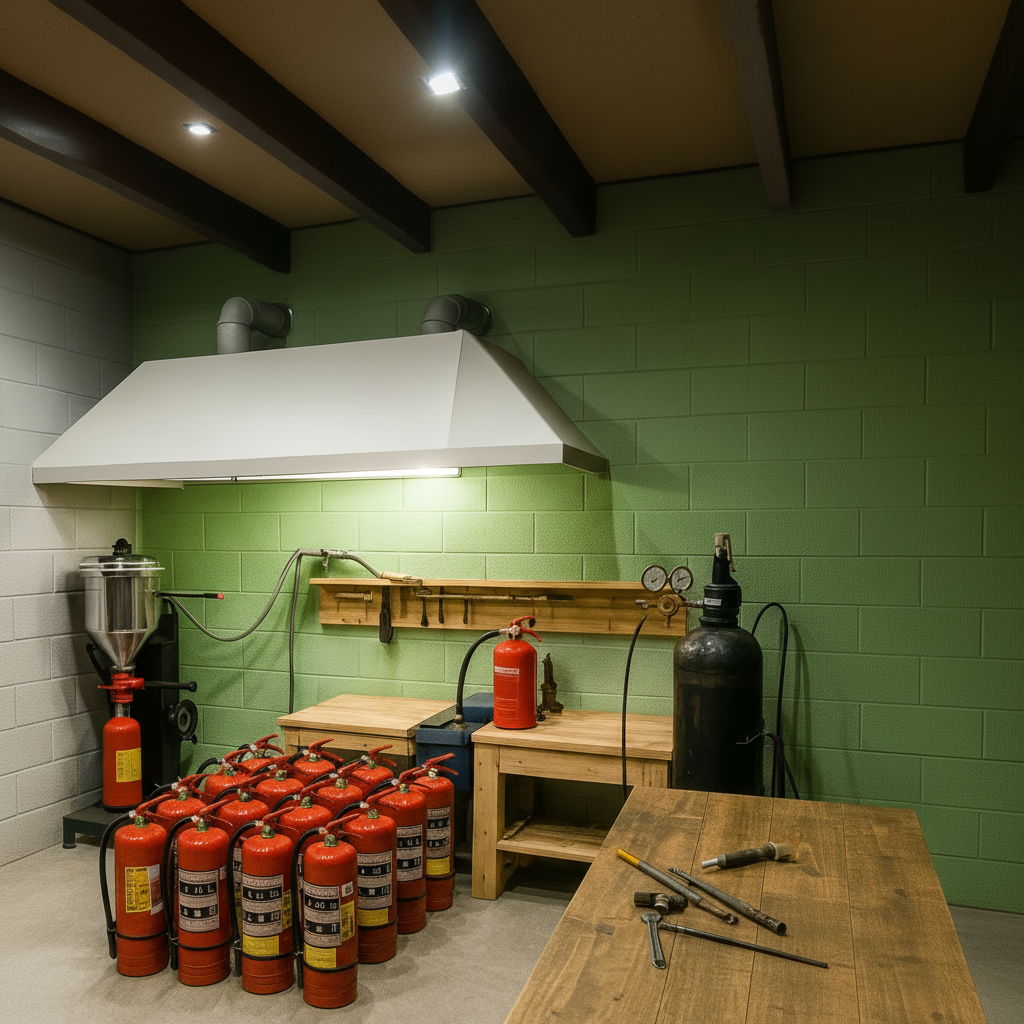
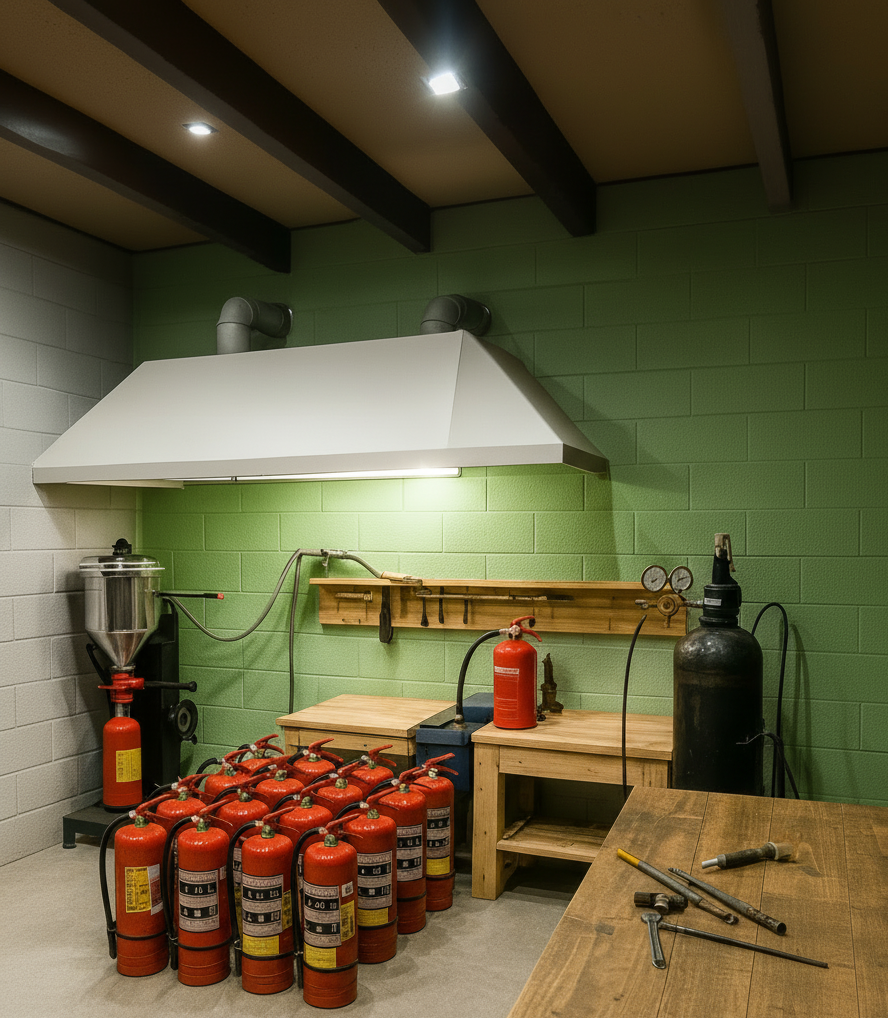
foto

diff --git a/assets/css/style.css b/assets/css/style.css
@@ -1106,9 +1106,9 @@ section {
 .phone-link::before {
     content: '📞';
     font-size: var(--font-size-base);
-}
     transform: translateX(3px);
 }
+
 
 /* Información de contacto */
 .contact-info p {
